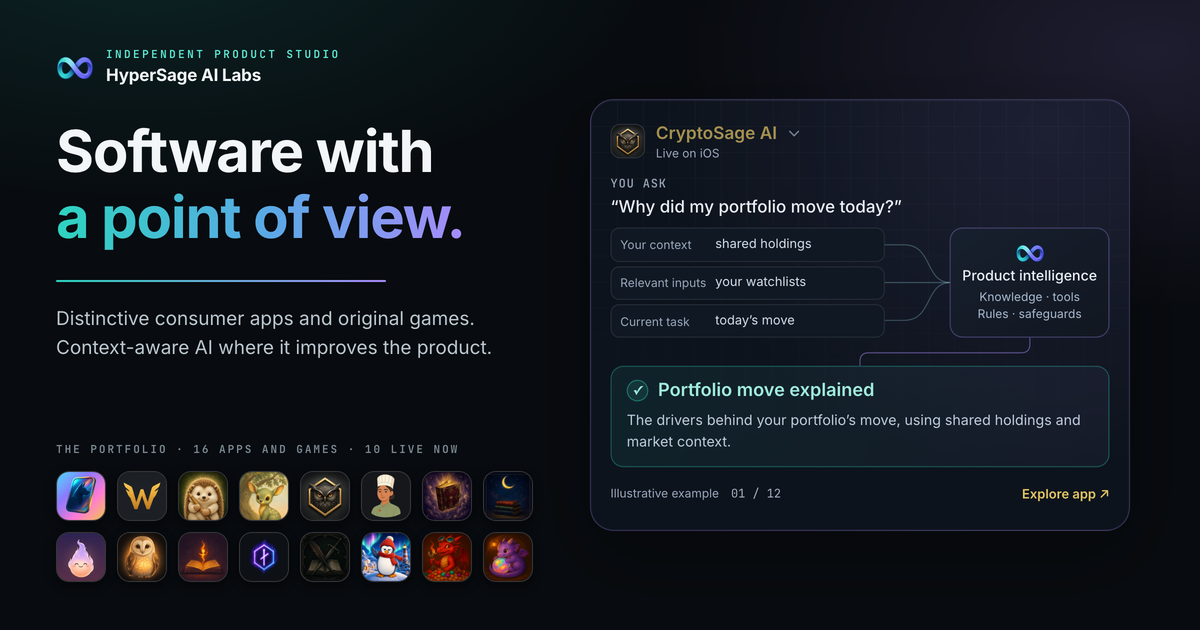
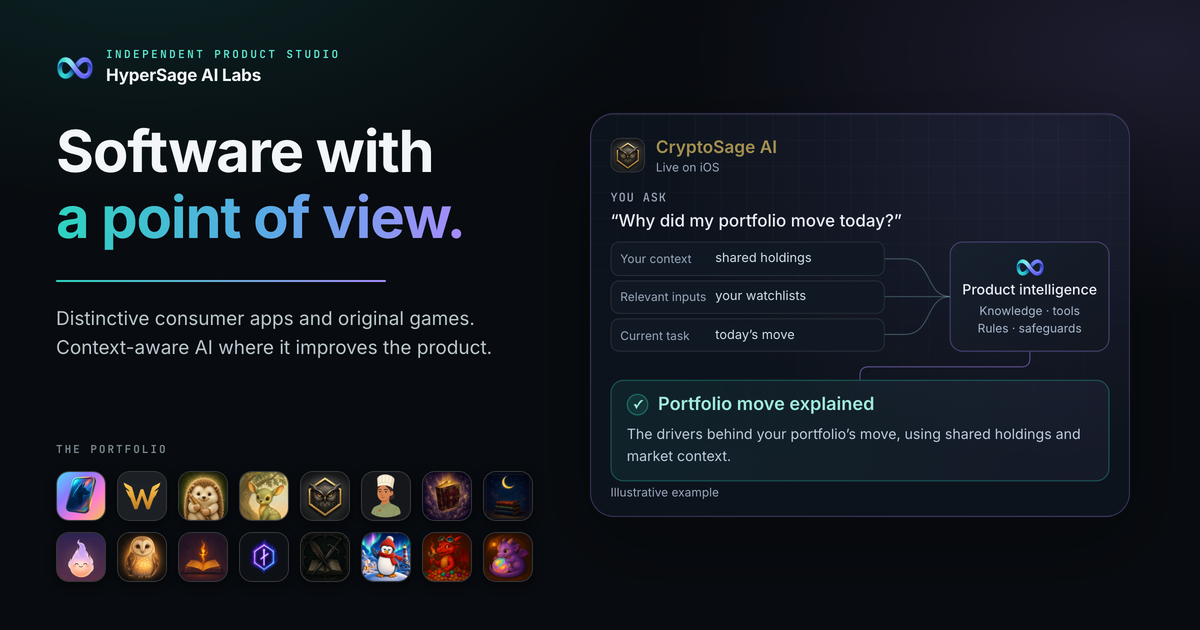
Studio social card and portfolio band stop counting apps
The og card read "16 apps and games · 10 live now" and the homepage band
"16 Apps & games / 10 Available now". A count goes stale between rebuilds,
then sits in X's card cache for about a week per URL, and Vanus judged a
public count unprofessional. The card keeps all sixteen icons under the
portfolio section's own "The portfolio" eyebrow; the band now reads
"iOS + Web / Platforms" and "More coming / In development"; the press fact
sheet drops "16 products". build_og.py no longer counts status chips or
hashes them into its stamp, since they no longer change a pixel.

The card also stops drawing the hero carousel's controls: "01 / 12",
"Explore app" and the product menu's chevron were a counter, a button and a
menu nobody can use inside a picture.

og-image.png re-rendered by tools/build_og.py; ?v= bumped to 20260913a on
index (og:image, twitter:image, JSON-LD image) and press/support/terms/privacy.

diff --git a/index.html b/index.html
@@ -17,7 +17,7 @@
   <meta property="og:description" content="HyperSage is an independent studio building distinctive consumer apps and original games, with context-aware AI where it improves the product.">
   <meta property="og:url" content="https://hypersage.ai/">
   <meta property="og:site_name" content="HyperSage AI Labs">
-  <meta property="og:image" content="https://hypersage.ai/og-image.png?v=20260908a">
+  <meta property="og:image" content="https://hypersage.ai/og-image.png?v=20260913a">
   <meta property="og:image:type" content="image/png">
   <meta property="og:image:width" content="1200">
   <meta property="og:image:height" content="630">
@@ -25,7 +25,7 @@
   <meta name="twitter:card" content="summary_large_image">
   <meta name="twitter:title" content="HyperSage AI Labs — Independent Product Studio">
   <meta name="twitter:description" content="HyperSage is an independent studio building distinctive consumer apps and original games, with context-aware AI where it improves the product.">
-  <meta name="twitter:image" content="https://hypersage.ai/og-image.png?v=20260908a">
+  <meta name="twitter:image" content="https://hypersage.ai/og-image.png?v=20260913a">
   <meta name="twitter:image:alt" content="HyperSage AI Labs — an independent product studio">
 
   <link rel="icon" type="image/png" href="favicon.png">
@@ -42,7 +42,7 @@
         "legalName": "HyperSage AI Labs LLC",
         "url": "https://hypersage.ai/",
         "logo": "https://hypersage.ai/apple-touch-icon.png",
-        "image": "https://hypersage.ai/og-image.png?v=20260908a",
+        "image": "https://hypersage.ai/og-image.png?v=20260913a",
         "description": "An independent studio building distinctive consumer apps and original games, with context-aware AI where it improves the product.",
         "email": "support@hypersage.ai",
         "address": { "@type": "PostalAddress", "addressRegion": "DE", "addressCountry": "US" }
@@ -455,23 +455,23 @@
       .section-head { margin-bottom: 32px; }
     }
 
-    /* A compact summary with separate number and label baselines. */
+    /* A compact summary: a short fact over its label. No counts — a number of
+       apps, or of how many are available, reads as a scoreboard and goes stale
+       the day something ships (Vanus, 2026-09-13). */
     .section-head .portfolio-facts {
-      display: grid; grid-template-columns: repeat(3, minmax(0, 1fr));
-      max-width: 520px; margin: 26px auto 0; padding: 16px 0;
+      display: grid; grid-template-columns: repeat(2, minmax(0, 1fr));
+      max-width: 440px; margin: 26px auto 0; padding: 16px 0;
       border-top: 1px solid var(--line); border-bottom: 1px solid var(--line);
       list-style: none; text-align: center;
     }
     .portfolio-facts li { display: flex; flex-direction: column; justify-content: center; gap: 3px; padding: 0 12px; }
     .portfolio-facts li + li { border-left: 1px solid var(--line); }
-    .portfolio-facts strong { color: var(--fg); font: 600 1.5rem/1.4 'Inter', sans-serif; font-variant-numeric: tabular-nums; letter-spacing: -.025em; }
-    .portfolio-facts .platforms { font-size: 1.08rem; line-height: 1.94; letter-spacing: -.015em; white-space: nowrap; }
+    .portfolio-facts strong { color: var(--fg); font: 600 1.08rem/1.94 'Inter', sans-serif; letter-spacing: -.015em; white-space: nowrap; }
     .portfolio-facts span { color: var(--muted); font-size: .75rem; line-height: 1.5; }
     @media (max-width: 860px) { .section-head .portfolio-facts { margin-left: 0; } }
     @media (max-width: 560px) {
       .portfolio-facts li { padding: 0 6px; }
-      .portfolio-facts strong { font-size: 1.3rem; }
-      .portfolio-facts .platforms { font-size: .94rem; }
+      .portfolio-facts strong { font-size: .94rem; }
       .portfolio-facts span { font-size: .69rem; }
     }
 
@@ -1025,7 +1025,7 @@
         <h2>Focused products for different parts of life.</h2>
         
         <p>Each product is designed around a clear audience and job, with its own identity and way of working.</p>
-        <ul class="portfolio-facts" aria-label="Portfolio at a glance"><li><strong data-portfolio-total>16</strong><span>Apps &amp; games</span></li><li><strong data-portfolio-live>10</strong><span>Available now</span></li><li><strong class="platforms">iOS + Web</strong><span>Platforms</span></li></ul>
+        <ul class="portfolio-facts" aria-label="Portfolio at a glance"><li><strong>iOS + Web</strong><span>Platforms</span></li><li><strong>More coming</strong><span>In development</span></li></ul>
       </div>
 
       <div class="products-grid">
@@ -1577,15 +1577,6 @@
         if (wasOpen !== null) note.open = wasOpen;
         wasOpen = null;
       });
-    })();
-
-    /* Keep the at-a-glance counts tied to the visible portfolio. */
-    (function () {
-      var cards = document.querySelectorAll('.products-grid > article.product');
-      var total = document.querySelector('[data-portfolio-total]');
-      var live = document.querySelector('[data-portfolio-live]');
-      if (total) total.textContent = cards.length;
-      if (live) live.textContent = document.querySelectorAll('.products-grid > article.product .status.live').length;
     })();
 
     /* Complete examples share one data record. Auto-advance pauses on focus,

diff --git a/press.html b/press.html
@@ -13,11 +13,11 @@
   <meta property="og:description" content="Studio boilerplate, fact sheet, product one-liners, and downloadable logos and icons.">
   <meta property="og:url" content="https://hypersage.ai/press.html">
   <meta property="og:site_name" content="HyperSage AI Labs">
-  <meta property="og:image" content="https://hypersage.ai/og-image.png?v=20260908a">
+  <meta property="og:image" content="https://hypersage.ai/og-image.png?v=20260913a">
   <meta property="og:image:width" content="1200">
   <meta property="og:image:height" content="630">
   <meta name="twitter:card" content="summary_large_image">
-  <meta name="twitter:image" content="https://hypersage.ai/og-image.png?v=20260908a">
+  <meta name="twitter:image" content="https://hypersage.ai/og-image.png?v=20260913a">
   <link rel="icon" type="image/png" href="favicon.png">
   <link rel="apple-touch-icon" sizes="180x180" href="apple-touch-icon.png">
   <link rel="stylesheet" href="fonts/fonts.css?v=20260907f">
@@ -56,7 +56,7 @@
 
   <main class="legal" id="main" tabindex="-1">
     <h1>Press Kit</h1>
-    <p class="updated">Last updated: 2026-09-07 · For anything not covered here, write to <a href="mailto:support@hypersage.ai?subject=Press%20inquiry">support@hypersage.ai</a>.</p>
+    <p class="updated">Last updated: 2026-09-13 · For anything not covered here, write to <a href="mailto:support@hypersage.ai?subject=Press%20inquiry">support@hypersage.ai</a>.</p>
 
     <h2>Boilerplate</h2>
     <p>HyperSage AI Labs is an independent product studio building distinctive consumer apps for crypto markets, relationships, health, recovery, food, stories, and sleep — alongside original games. Where AI belongs, its products add a product-specific intelligence layer that combines information a person provides and relevant in-product context with domain knowledge, tools, and safeguards. The studio designs, builds, and operates the entire portfolio in-house.</p>
@@ -65,7 +65,7 @@
     <table class="facts">
       <tr><th scope="row">Studio</th><td>HyperSage AI Labs</td></tr>
       <tr><th scope="row">Legal entity</th><td>HyperSage AI Labs LLC (Delaware, USA)</td></tr>
-      <tr><th scope="row">What we make</th><td>Consumer apps and original games — 16 products</td></tr>
+      <tr><th scope="row">What we make</th><td>Consumer apps and original games</td></tr>
       <tr><th scope="row">Platforms</th><td>iOS and the web</td></tr>
       <tr><th scope="row">Website</th><td><a href="https://hypersage.ai/">hypersage.ai</a></td></tr>
       <tr><th scope="row">Press contact</th><td><a href="mailto:support@hypersage.ai?subject=Press%20inquiry">support@hypersage.ai</a></td></tr>

diff --git a/privacy.html b/privacy.html
@@ -14,11 +14,11 @@
   <meta property="og:description" content="How the HyperSage AI Labs website handles data — it collects nothing, sets no cookies, and runs no analytics. Each product has its own policy.">
   <meta property="og:url" content="https://hypersage.ai/privacy.html">
   <meta property="og:site_name" content="HyperSage AI Labs">
-  <meta property="og:image" content="https://hypersage.ai/og-image.png?v=20260908a">
+  <meta property="og:image" content="https://hypersage.ai/og-image.png?v=20260913a">
   <meta property="og:image:width" content="1200">
   <meta property="og:image:height" content="630">
   <meta name="twitter:card" content="summary_large_image">
-  <meta name="twitter:image" content="https://hypersage.ai/og-image.png?v=20260908a">
+  <meta name="twitter:image" content="https://hypersage.ai/og-image.png?v=20260913a">
   <link rel="icon" type="image/png" href="favicon.png">
   <link rel="apple-touch-icon" sizes="180x180" href="apple-touch-icon.png">
   <link rel="stylesheet" href="fonts/fonts.css?v=20260907f">

diff --git a/support.html b/support.html
@@ -14,11 +14,11 @@
   <meta property="og:description" content="Get help with a HyperSage product, or reach the studio. Email support@hypersage.ai.">
   <meta property="og:url" content="https://hypersage.ai/support.html">
   <meta property="og:site_name" content="HyperSage AI Labs">
-  <meta property="og:image" content="https://hypersage.ai/og-image.png?v=20260908a">
+  <meta property="og:image" content="https://hypersage.ai/og-image.png?v=20260913a">
   <meta property="og:image:width" content="1200">
   <meta property="og:image:height" content="630">
   <meta name="twitter:card" content="summary_large_image">
-  <meta name="twitter:image" content="https://hypersage.ai/og-image.png?v=20260908a">
+  <meta name="twitter:image" content="https://hypersage.ai/og-image.png?v=20260913a">
   <link rel="icon" type="image/png" href="favicon.png">
   <link rel="apple-touch-icon" sizes="180x180" href="apple-touch-icon.png">
   <link rel="stylesheet" href="fonts/fonts.css?v=20260907f">

diff --git a/terms.html b/terms.html
@@ -14,11 +14,11 @@
   <meta property="og:description" content="The terms that govern the HyperSage AI Labs website. Each product has its own terms.">
   <meta property="og:url" content="https://hypersage.ai/terms.html">
   <meta property="og:site_name" content="HyperSage AI Labs">
-  <meta property="og:image" content="https://hypersage.ai/og-image.png?v=20260908a">
+  <meta property="og:image" content="https://hypersage.ai/og-image.png?v=20260913a">
   <meta property="og:image:width" content="1200">
   <meta property="og:image:height" content="630">
   <meta name="twitter:card" content="summary_large_image">
-  <meta name="twitter:image" content="https://hypersage.ai/og-image.png?v=20260908a">
+  <meta name="twitter:image" content="https://hypersage.ai/og-image.png?v=20260913a">
   <link rel="icon" type="image/png" href="favicon.png">
   <link rel="apple-touch-icon" sizes="180x180" href="apple-touch-icon.png">
   <link rel="stylesheet" href="fonts/fonts.css?v=20260907f">

diff --git a/tools/build_og.py b/tools/build_og.py
@@ -49,7 +49,7 @@ NAMES = {
 }
 
 
-def site_parts() -> tuple[str, str, list[str]]:
+def site_parts() -> tuple[str, str, list[str], list[str], str]:
     html = INDEX.read_text()
     style = re.search(r"<style>(.*?)</style>", html, re.S)
     if not style:
@@ -82,28 +82,22 @@ def site_parts() -> tuple[str, str, list[str]]:
         if i not in icons[i].rsplit("/", 1)[-1]:
             sys.exit(f"icon for product-{i} is {icons[i]} — the file does not name "
                      f"the product it was matched to; the card would show the wrong art")
-    # Each card's lifecycle chip, in page order. The card renders fifteen
-    # identical tiles, but the PAGE qualifies seven of them as unshipped — so a
-    # bare "15 apps and games" under a row of store-looking icons asserts a
-    # shipping portfolio nearly half of which you cannot get yet, to an audience
-    # that mostly never clicks through. The count of live products is read off
-    # the page's own `status live` marker rather than typed, so it moves on its
-    # own the day something ships; a hardcoded number here would rot at exactly
-    # the moment the news is good.
-    statuses = re.findall(r'class="status( live)?">([^<]*)<', html)
-    if len(statuses) != len(seen):
-        sys.exit(f"{len(seen)} product cards but {len(statuses)} status chips — "
-                 f"the card cannot say how many are live if the page's own "
-                 f"lifecycle markers do not line up with its products")
+    # The strip's label is the portfolio section's own eyebrow, and it carries NO
+    # COUNT. It used to read "16 apps and games · 10 live now", counted off the
+    # page's status chips. A number inside a picture is a claim that goes stale
+    # between rebuilds and then sits in X's card cache for a week per URL, and
+    # Vanus judged a count unprofessional on the page itself (2026-09-13), so the
+    # page's at-a-glance band dropped its numbers in the same change.
+    cap = re.search(r'id="products".{0,400}?class="eyebrow">([^<]+)<', html, re.S)
+    if not cap:
+        sys.exit("no eyebrow in the #products section — the strip label has no source")
     return (style.group(1), fig.group(1), [NAMES[i] for i in seen],
-            [icons[i] for i in seen], [t for _, t in statuses],
-            sum(1 for cls, _ in statuses if cls.strip() == "live"))
+            [icons[i] for i in seen], cap.group(1).strip())
 
 
 def build_html() -> str:
-    style, figure, products, icons, _, live = site_parts()
+    style, figure, products, icons, cap = site_parts()
     tiles = "".join(f'<img src="{s}" alt="">' for s in icons)
-    cap = f"The portfolio · {len(products)} apps and games · {live} live now"
     return f"""<!doctype html><html><head><meta charset="utf-8">
 <!-- The site's @font-face rules live HERE, not in index.html's <style> block, so
      lifting that block alone rendered the whole card — including the lifted
@@ -124,7 +118,7 @@ def build_html() -> str:
   /* 500 + a 20px gutter, tuned WITH the figure's scale below so the card has
      even air on both sides — see that rule for the arithmetic. The floor on this
      width is the tile strip: 8 tiles per row needs 477px of content box, and at
-     7 per row fifteen products spill into a third row that collides upward. */
+     7 per row sixteen products spill into a third row that collides upward. */
   .og-left {{ width:500px; flex:0 0 500px; display:flex; flex-direction:column; }}
   .og-right {{ flex:1; display:flex; align-items:center; justify-content:center; }}
   .og-brand {{ display:flex; align-items:center; gap:12px; margin-bottom:30px; }}
@@ -161,10 +155,10 @@ def build_html() -> str:
      no name is ever read, so the card spent its whole lower third on type nobody
      can see. Icons survive the downscale — each tile is still ~18px in that
      bubble and reads as a portfolio at a glance. The label is the live page's own
-     strip label and the tiles are the live page's own icons, so this section
+     section eyebrow and the tiles are the live page's own icons, so this section
      mirrors the site exactly like the figure does.
-     50px + 11px gap = 8 tiles per row inside 492px, so fifteen products land as
-     8 + 7. Check the arithmetic if the count changes; a third row would collide
+     50px + 11px gap = 8 tiles per row inside 492px, so sixteen products land as
+     8 + 8. Check the arithmetic if the count changes; a third row would collide
      with the paragraph above. */
   .og-apps {{ margin-top:auto; }}
   .og-apps .cap {{ font: 600 11px/1 'JetBrains Mono',ui-monospace,monospace;
@@ -178,6 +172,14 @@ def build_html() -> str:
   /* The compact flow keeps the page’s own typography and geometry.
      Scale it as one unit inside the social card’s right column. */
   .og-right .context-engine {{ transform:scale(1.08); transform-origin:center; margin:0; }}
+  /* NO CONTROLS IN A PICTURE. The lifted figure is the page's live carousel, and
+     on the page "01 / 12", "Explore app ↗" and the product menu's chevron all
+     work. Frozen into a PNG they are a counter for slides nobody can advance, a
+     button nobody can press and a menu nobody can open — a fake CTA in the one
+     image that represents the studio on X. "Illustrative example" stays: it is
+     the caption that keeps the diagram honest. */
+  .og-right .engine-counter, .og-right .example-link {{ display:none !important; }}
+  .og-right .example-choice select {{ background-image:none; }}
 </style></head><body>
 <div class="og">
   <div class="og-left">
@@ -210,22 +212,22 @@ def inputs_digest() -> str:
     the left column: that is precisely why they belong. If the page's hero
     headline is rewritten, nothing about the lifted figure changes, and the
     preview would keep promising the old line in silence."""
-    style, figure, products, icons, statuses, _ = site_parts()
+    style, figure, products, icons, cap = site_parts()
     html = INDEX.read_text()
     h1 = re.search(r"<h1[^>]*>(.*?)</h1>", html, re.S)
     h1 = re.sub(r"\s+", " ", re.sub(r"<[^>]+>", "", h1.group(1))).strip() if h1 else ""
     ogt = re.search(r'<meta property="og:title" content="([^"]*)"', html)
     h = hashlib.sha256()
-    # Statuses are in here because the card COUNTS them. An app going live
-    # changes no style, no figure and no name — without this the preview would
-    # keep announcing the old number in silence, which is this stamp's whole job.
-    for part in (style, figure, "\n".join(products), "\n".join(icons),
-                 "\n".join(statuses), h1, ogt.group(1) if ogt else ""):
+    # Lifecycle chips are deliberately NOT in here any more: the card stopped
+    # counting them, so an app going live changes no pixel, and a stale verdict
+    # would only force a ?v= bump on identical bytes.
+    for part in (style, figure, "\n".join(products), "\n".join(icons), cap,
+                 h1, ogt.group(1) if ogt else ""):
         h.update(part.encode())
         h.update(b"\0")
     # The brand mark is pixels in the card; a swapped logo.png must read as stale.
-    # The fifteen app icons are pixels in it too, for exactly the same reason —
-    # a redrawn icon changes what the card shows while every string stays put.
+    # The app icons are pixels in it too, for exactly the same reason — a redrawn
+    # icon changes what the card shows while every string stays put.
     for rel in ["logo.png"] + [s.split("?", 1)[0] for s in icons]:
         h.update((ROOT / rel).read_bytes())
         h.update(b"\0")
@@ -253,8 +255,8 @@ def main() -> None:
                     help="verify the product list resolves AND that og-image.png "
                          "was rendered from the page as it stands now; render nothing")
     args = ap.parse_args()
-    _, _, products, _, _, live = site_parts()
-    print(f"{len(products)} products from index.html ({live} live): {', '.join(products)}")
+    _, _, products, _, cap = site_parts()
+    print(f"{len(products)} products from index.html under “{cap}”: {', '.join(products)}")
     if args.check:
         # The failure this catches actually happened: the hero diagram's result
         # changed from "Fit to the task" to "The best possible answer", nobody
